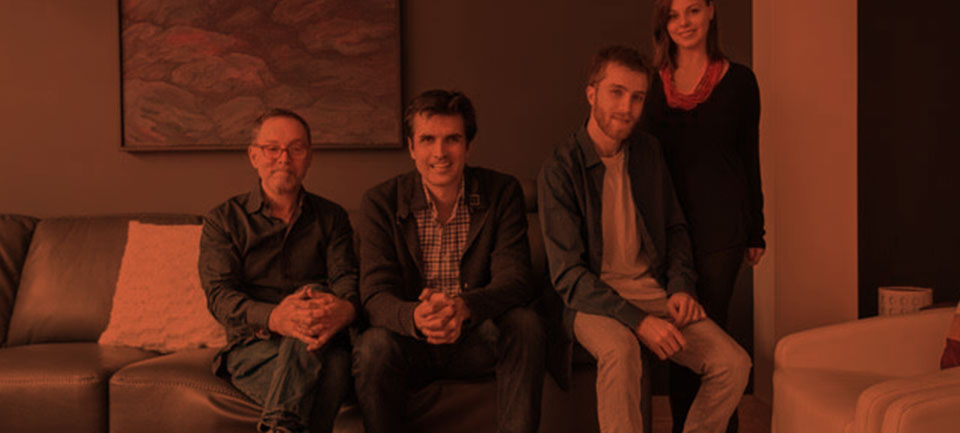
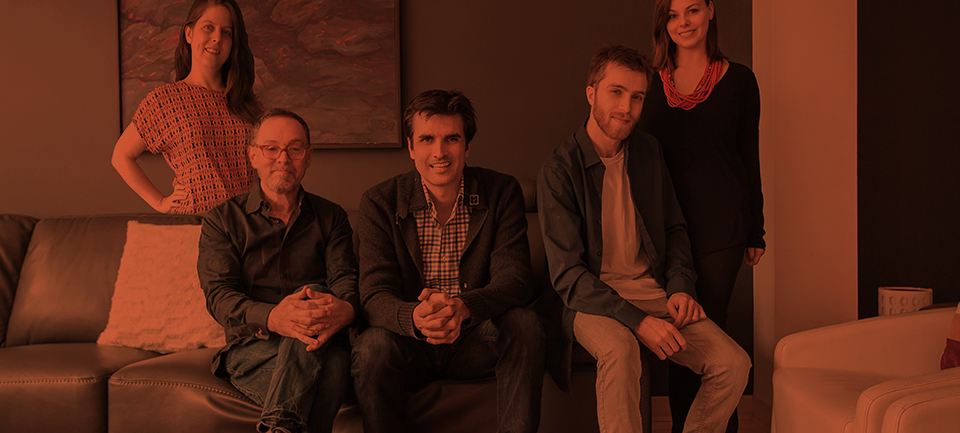
all pages basically done

diff --git a/general.css b/general.css
@@ -1,11 +1,36 @@
 /*Useful Info
+This area provides information that will help guide you
+through the CSS code. 
+
+Colors section provides info on
+colors that are repeated. These color names are searchable
+throughout this code, where this color is used the color
+name is tagged as a comment.
+
+Table of Contents section helps users understand how the
+author separated the code, each area is also searchable
+by name.
+
 Colors:
 button-color - #f15e27
+
+Table of Contents:
+
 
 Useful Info Ends*/
 
 /****** shared styling ******/
 /*btn styling*/
+.color_orange {
+  color: #f15e27; /*button-color*/
+}
+.orange_line {
+  height: 55px;
+  width: 1px;
+  margin-left: auto;
+  margin-right: auto;
+  background-color: #f15e27; /*button-color*/
+}
 .orange_btn { 
   display: inline-block;
   padding: 12px 53px 12px 19px;
@@ -20,6 +45,8 @@ Useful Info Ends*/
   color: white;
   border-radius: 20px;
   letter-spacing: 2px;
+  border: 0;
+  box-shadow: none;
 }
 .orange_btn:hover {
   background-color: white;
@@ -63,6 +90,9 @@ Useful Info Ends*/
 p {
   margin-bottom: 0;
   font-size: 14px;
+}
+.linebreak_desktop {
+  display: none; /*linebreak for desktop view, hidden in mobile*/
 }
 .page-template-page-full .nav-row {
   background-image: url("http://jacksonwong.ca/orange/wp-content/uploads/2016/03/Light.png");
@@ -260,7 +290,7 @@ p {
   left: 20px;
   right: 20px;
   z-index: 10;
-  background-image: url("http://jacksonwong.ca/orange/wp-content/uploads/2016/03/who_we_are_header_img1.jpg");
+  background-image: url("http://jacksonwong.ca/orange/wp-content/uploads/2016/03/who_we_are_header_img.jpg");
   background-repeat: no-repeat;
   background-position: bottom;
 }
@@ -484,9 +514,135 @@ p {
 }
 /* screening_room page ends */
 
+/* contact page */
+#contact_header {
+  position: relative;
+  z-index: 1;
+}
+#contact_form_row {
+  position: relative;
+  z-index: 0;
+}
+#contact_header .page_header {
+  position: relative;
+  height: auto;
+  padding-top: 60px;
+}
+.contact_bg {
+  background-image: url("http://jacksonwong.ca/orange/wp-content/uploads/2016/03/contact_mobile_bg.png");
+  background-repeat: no-repeat;
+  background-position: center;
+  position: absolute;
+  top: 0;
+  bottom: 0;
+  left: 30px;
+  right: 30px;
+  z-index: 0;
+}
+#contact_header .section_title {
+  font-family: "bebas-neue";
+  font-size: 20px;
+  font-weight: 500;
+  color: white;
+  text-align: center;
+  letter-spacing: 4px;
+  position: relative;
+  z-index: 1;
+}
+.contact_info_container {
+  text-align: center;
+  z-index: 1;
+}
+.contact_info_container .contact_info {
+  font-family: "Lato";
+  font-size: 14px;
+  font-weight: 300;
+  color: white;
+  position: relative;
+  margin-top: 0;
+  margin-bottom: 20px;
+}
+.contact_info .contact_method {
+  text-transform: uppercase;
+  font-weight: 600;
+  letter-spacing: 2px
+}
+#contact_header .orange_line {
+  z-index: 1;
+}
+#contact_header #ol_1 {
+  margin-top: 30px;
+  margin-bottom: 30px;
+}
+#contact_header #ol_2 {
+  margin-top: 90px;
+  margin-bottom: -30px;
+}
+#contact_form_row .orange_internal_title { /*DRY opp*/
+  font-family: "bebas-neue";
+  font-size: 20px;
+  font-weight: 500;
+  color: white;
+  letter-spacing: 4px;
+}
+#contact_form_row input[type="text"],
+#contact_form_row input[type="email"],
+#contact_form_row textarea {
+  background: transparent;
+  border: 0;
+  border-bottom: 1px solid white;
+  border-radius: 0;
+  height: 30px;
+  box-sizing: border-box;
+  padding: 5px 1px 10px 1px;
+  margin-bottom: 45px;
+}
+#contact_form_row textarea {
+  min-height: 30px;
+}
+#contact_form_row input::-webkit-input-placeholder { /* WebKit, Blink, Edge */
+    color: white;
+}
+#contact_form_row input:-moz-placeholder { /* Mozilla Firefox 4 to 18 */
+   color: white;
+   opacity:  1;
+}
+#contact_form_row input::-moz-placeholder { /* Mozilla Firefox 19+ */
+   color: white;
+   opacity:  1;
+}
+#contact_form_row input:-ms-input-placeholder { /* Internet Explorer 10-11 */
+   color: white;
+}
+#contact_form_row input:placeholder-shown { /* Standard (https://drafts.csswg.org/selectors-4/#placeholder) */
+  color: white;
+}
+#contact_form_row textarea::-webkit-input-placeholder { /* WebKit, Blink, Edge */
+    color: white;
+}
+#contact_form_row textarea:-moz-placeholder { /* Mozilla Firefox 4 to 18 */
+   color: white;
+   opacity:  1;
+}
+#contact_form_row textarea::-moz-placeholder { /* Mozilla Firefox 19+ */
+   color: white;
+   opacity:  1;
+}
+#contact_form_row textarea:-ms-input-placeholder { /* Internet Explorer 10-11 */
+   color: white;
+}
+#contact_form_row textarea:placeholder-shown { /* Standard (https://drafts.csswg.org/selectors-4/#placeholder) */
+  color: white;
+}
+/* contact page ends */
+
 @media (min-width: 980px) {
   .orange_btn {
     letter-spacing: 4px;
+  }
+
+  .linebreak_mobile {
+    display: none; /*linebreak that only shows up in mobile, hidden for desktop*/
   }
   .section_container_box {
   }
@@ -788,4 +944,20 @@ p {
     right: 0;
   }
   /* screening_room page ends */
+
+  /* contact page */
+  .contact_bg {
+    background-image: url("http://jacksonwong.ca/orange/wp-content/uploads/2016/03/contact_bg.png");
+  }
+  .contact_info_container {
+    width: 700px;
+    display: flex;
+    justify-content: space-between;
+    margin-left: auto;
+    margin-right: auto;
+  }
+  #contact_header #ol_2 {
+    height: 100px;
+  }
+/* contact page ends */
 }

diff --git a/contact.html b/contact.html
@@ -1,0 +1,13 @@
+<!-- section -->
+<div class="contact_bg"></div>
+<h1 class="section_title">Talk To Orange</h1>
+<div class="orange_line" id="ol_1"></div>
+<div class="contact_info_container">
+    <h3 class="contact_info"><span class="contact_method">Phone</span> <span class="color_orange">&#47;&#47;</span> 416 222 7722</h3>
+    <h3 class="contact_info"><span class="contact_method">Email</span> <span class="color_orange">&#47;&#47;</span> info@orange567.com</h3>
+    <h3 class="contact_info"><span class="contact_method">Base</span> <span class="color_orange">&#47;&#47;</span> 567 Queen St. W</h3>
+</div>
+<div class="orange_line" id="ol_2"></div>
+<!-- section -->
+<h2 class="orange_internal_title">Have A Question <br class="linebreak_mobile" />For Us?</h2>
+<!-- section -->

diff --git a/screening_room.html b/screening_room.html
@@ -1,6 +1,8 @@
+<!-- section -->
 <div class="sizzle_me_bg"></div>
 <div class="btn_container">
 	<a href="#" class="no_bg_btn left_btn_arrow">Take Me Back Home</a>
 	<div class="divider"></div>
 	<a href="#" class="no_bg_btn right_btn_arrow">Now Show Me Your Digs</a>
 </div>
+<!-- section -->
